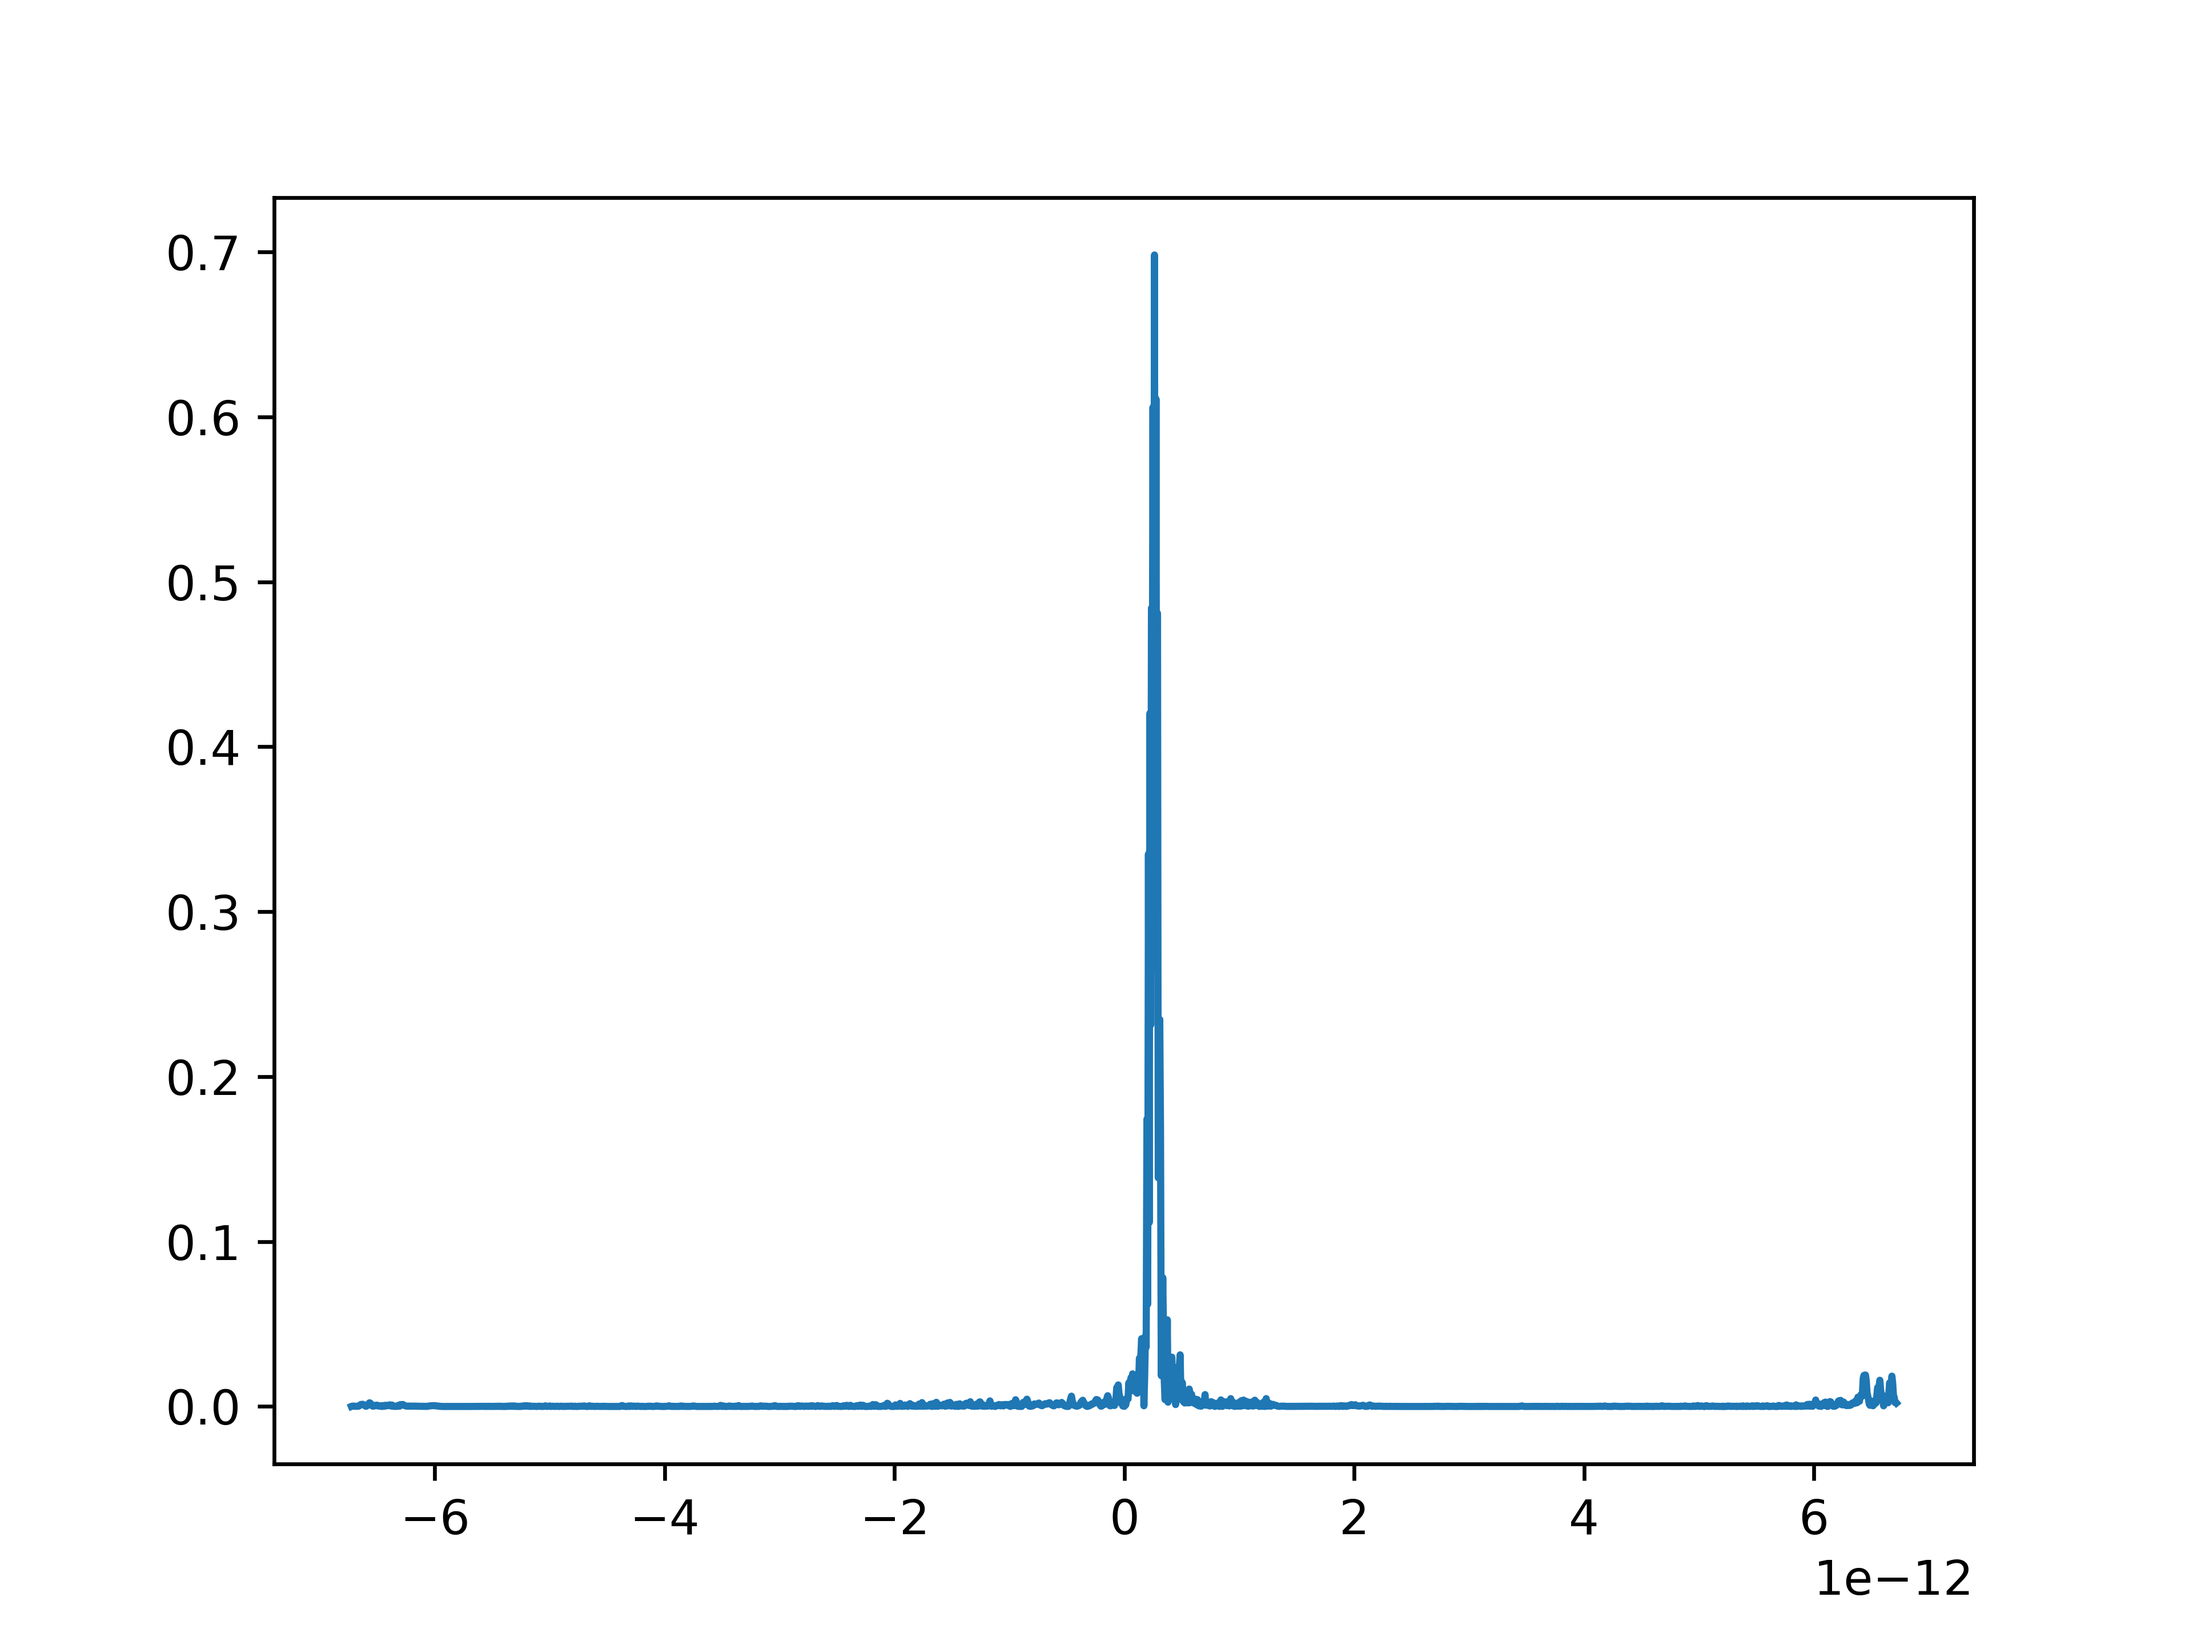
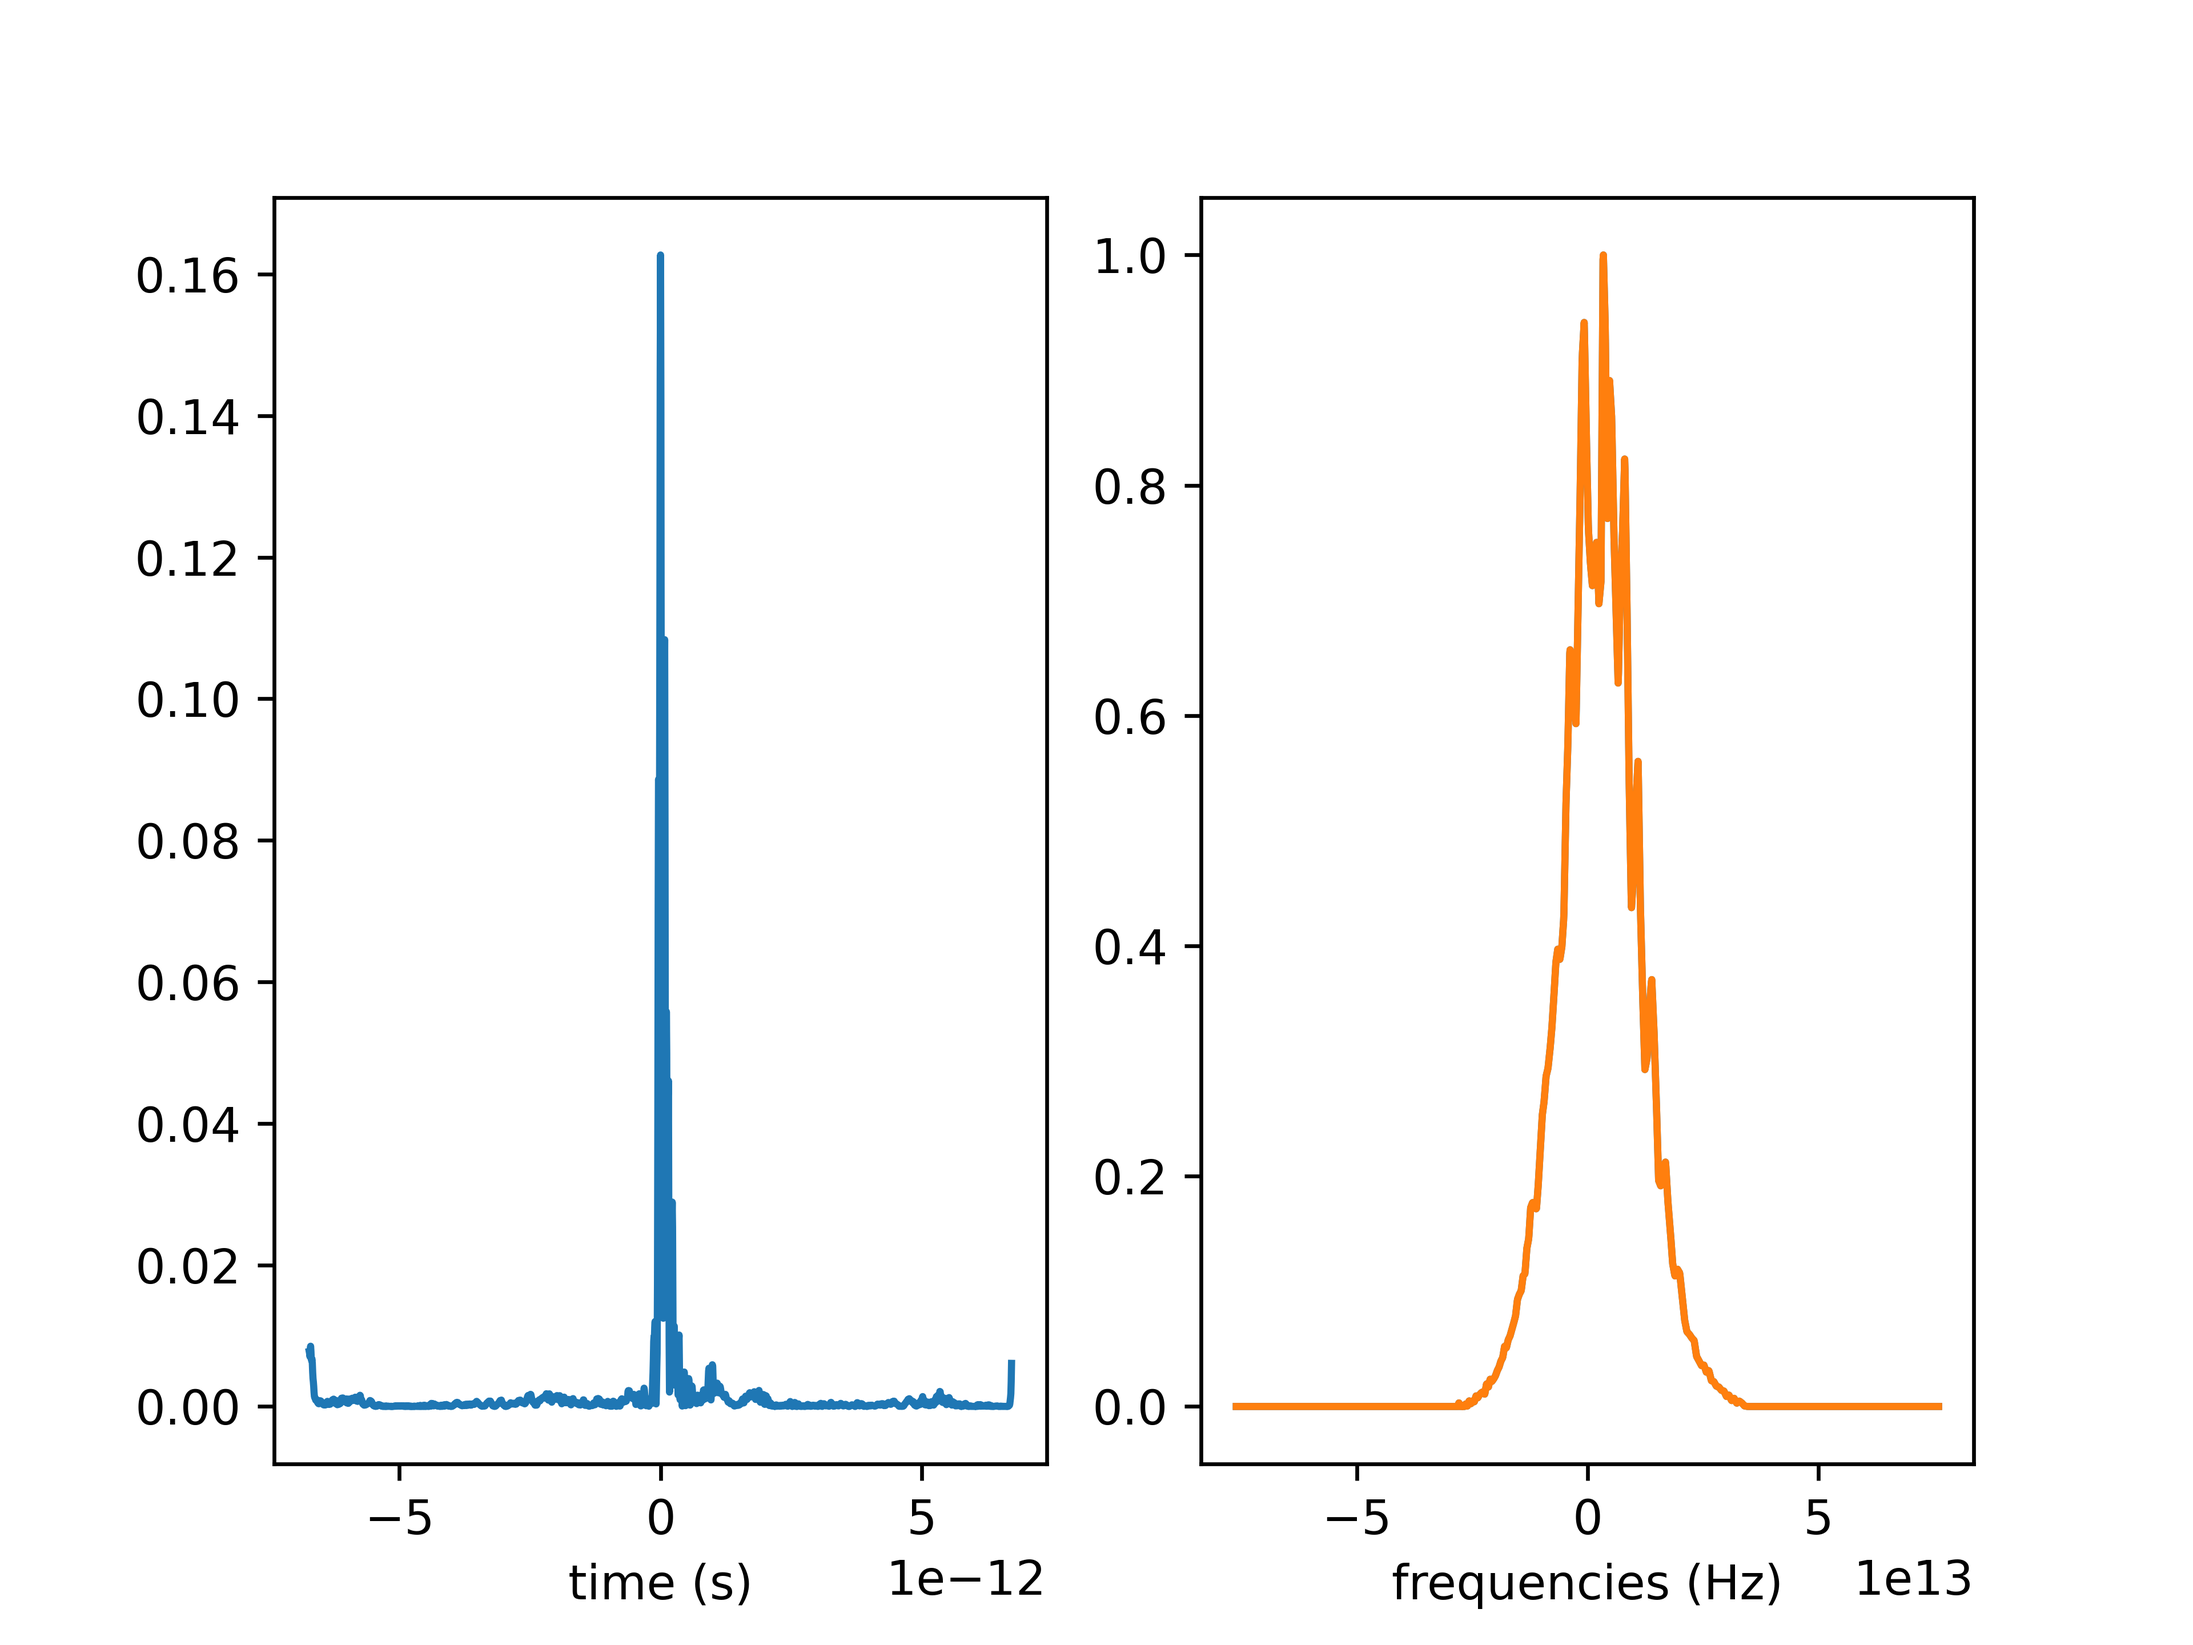
Added steps to algorithm

diff --git a/ptychography.py b/ptychography.py
@@ -54,9 +54,20 @@ def calc_trace(pulse, delays):
         trace[i,:] = abs(shg_fft*np.conj(shg_fft))
     return trace
 
-def mu(trace_measured, trace_calculated):
+def scale_factor(trace_measured, trace_calculated):
     return sum(trace_measured*trace_calculated)/sum(trace_calculated*trace_calculated)
 
+# Calculate norm for error function, since it need only be calculated once
+norm = trace.shape[0]*trace.shape[1]*np.max(trace)**2
+def calc_error(pulse, trace_measured, delays):
+    # Calculate trace
+    trace_calculated = calc_trace(pulse, delays)
+    # Calculate scale factor
+    mu = scale_factor(trace_measured, trace_calculated)
+    # Sum squares of residuals
+    r = np.sum((trace_measured-mu*trace_calculated)**2)
+    # Return normalized error
+    return np.sqrt(r/norm)
 
 # I'm using frequency instead of angular frequency because that is
 # numpy's convention, and it's thus simpler this way
@@ -76,6 +87,7 @@ threshold = 1.5e-3
 iterations = 100
 pulse = initial_guess
 indices = np.arange(len(delays))
+frog_errors = []
 for i in range(iterations):
     #fig, axes = plt.subplots(1, 2)
     #axes[0].plot(times, pulse.real)
@@ -120,10 +132,31 @@ for i in range(iterations):
         scale = alpha*np.conj(gate_pulse)/(np.max(abs(gate_pulse*np.conj(gate_pulse))) + 1.e-3)
         pulse += scale*(shg_new - shg)
 
-        #TODO: Print frog error
+        # Correct Spectrum of E TODO: probably need to normalize to be the same energy before and after
+        pulse_fft = np.fft.fftshift(np.fft.fft(pulse))
+        energy = np.sum(abs(pulse_fft*np.conj(pulse_fft)))
+        pulse_fft = original_spectral_amplitude*np.exp(1.0j*np.angle(pulse_fft))
+        new_energy = np.sum(abs(pulse_fft*np.conj(pulse_fft)))
+        pulse_fft *= np.sqrt(energy/new_energy)
+        pulse = np.fft.ifft(np.fft.ifftshift(pulse_fft))
+
+        # Remove time ambiguity
+        peak_index = np.argmax(abs(pulse*np.conj(pulse)))
+        pulse = np.roll(pulse, int(len(pulse)/2 - peak_index))
+
+    #plt.imshow(calc_trace(pulse, delays))
+    #plt.show()    
+
+    # Print frog error
+    frog_error = calc_error(pulse, trace, delays)
+    print("Iteration: ", i, "FROG Error: ", frog_error)
+    frog_errors.append(frog_error)
+
     #axes[1].plot(times, pulse.real)
     #axes[1].plot(times, pulse.imag)
     #plt.show()
+
+np.savetxt(folder+'frog_errors.tsv', np.array(frog_errors), delimiter='\t')
 
 #plt.plot(times, pulse.real)
 #plt.plot(times, pulse.imag)
@@ -135,7 +168,14 @@ ax.set_ylabel('delays (s)')
 ax.set_aspect(1.e25)
 plt.savefig(folder+'final_trace.png', dpi=600)
 plt.clf()
-plt.plot(times, abs(pulse)**2)
+fig, axes = plt.subplots(1, 2)
+axes[0].plot(times, abs(pulse)**2)
+axes[0].set_xlabel('time (s)')
+original = abs(original_spectral_amplitude)**2
+axes[1].plot(shifted_frequencies, original/np.max(original))
+retrieved = abs(np.fft.fftshift(np.fft.fft(pulse)))**2
+axes[1].plot(shifted_frequencies, retrieved/np.max(retrieved))
+axes[1].set_xlabel('frequencies (Hz)')
 plt.savefig(folder+'final_pulse.png', dpi=600)
 plt.show()
 
